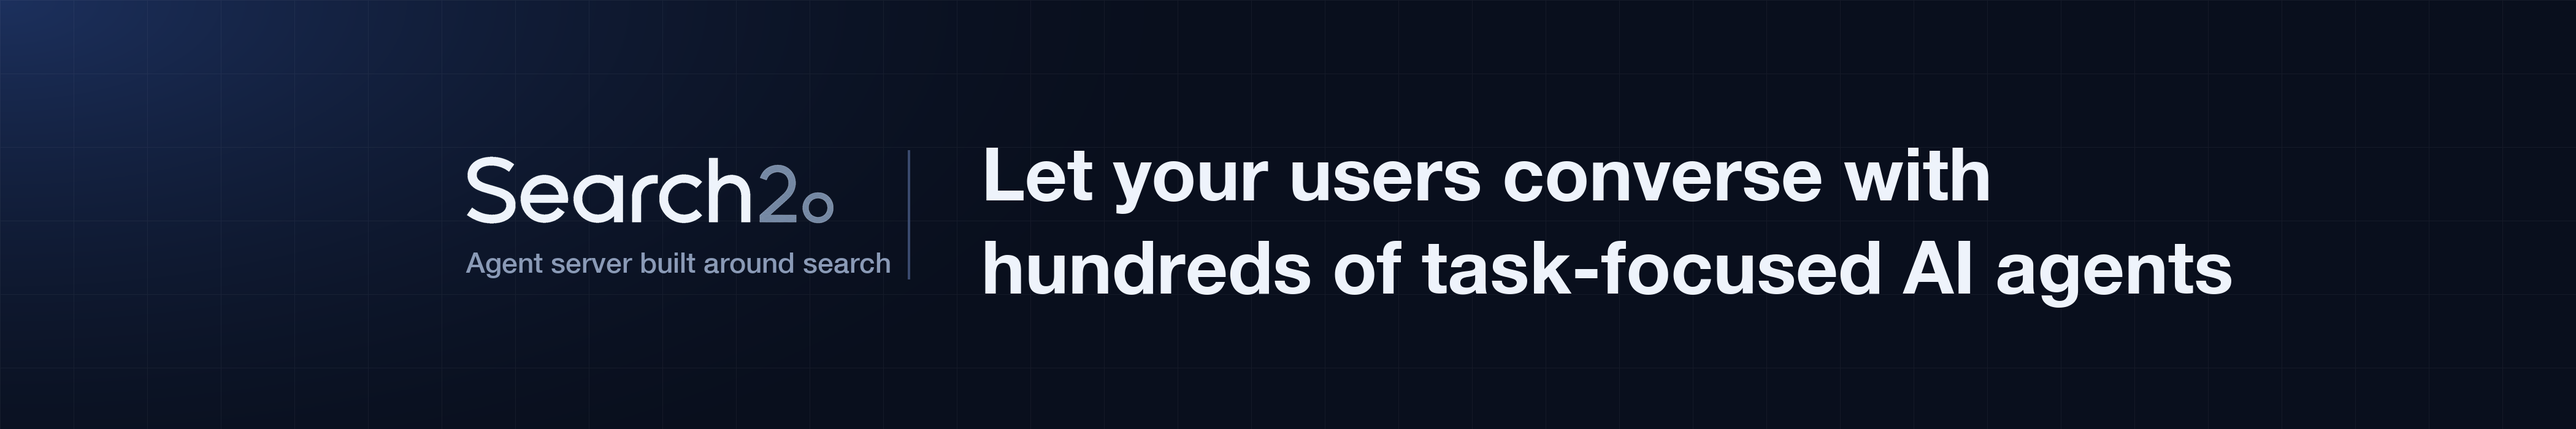
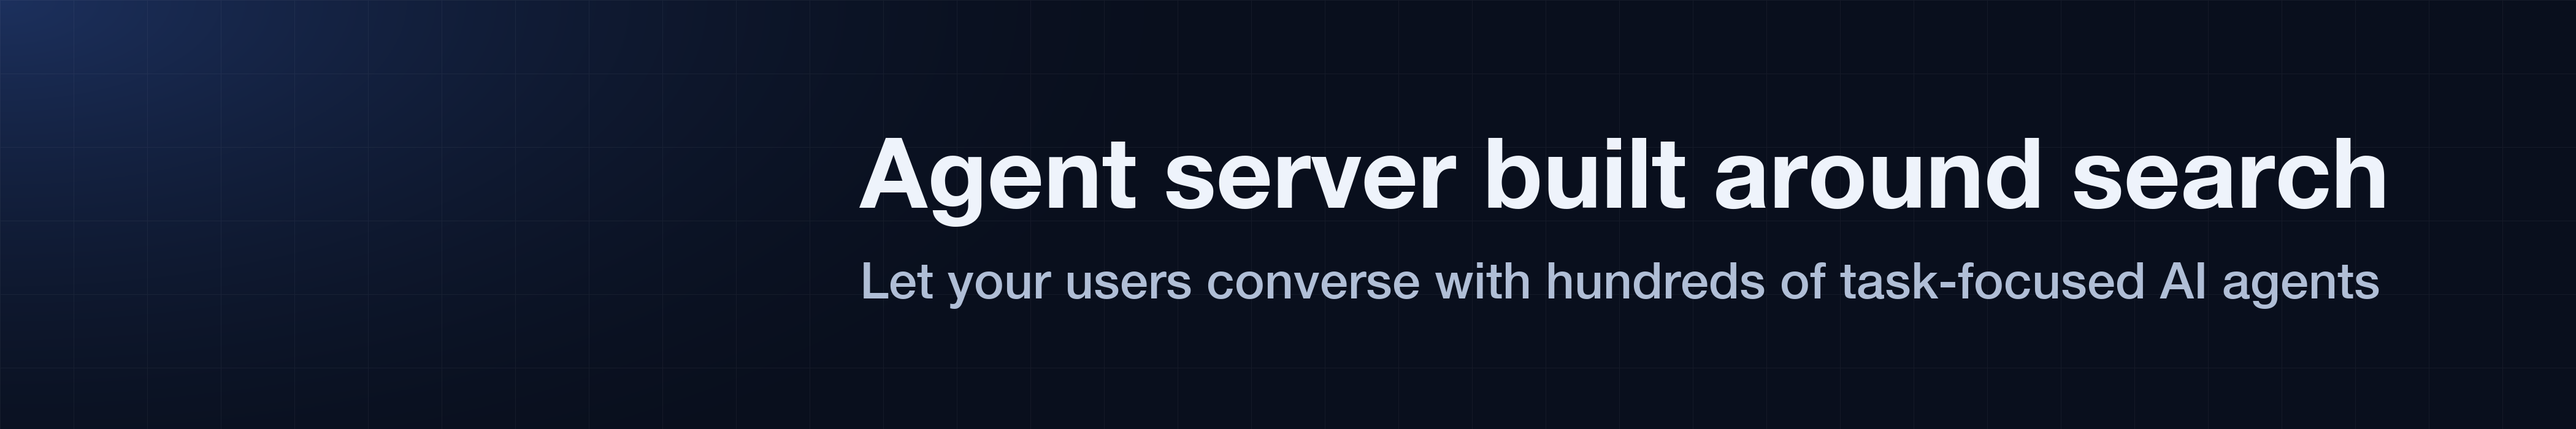
Move from s2oserver

Changed region(s): [[0.156, 0.3, 0.9357, 0.54], [0.156, 0.57, 0.9357, 0.72]]

diff --git a/gen/linkedin_banner.py b/gen/linkedin_banner.py
@@ -1,14 +1,13 @@
-"""Draws content/linkedin-banner2.png, the LinkedIn company page cover (4200x700, 6:1): the wordmark
-art from gen/assets/wordmark.png with the tagline beneath it, and the home page heading. LinkedIn shows it at 1128x191 and overlays the page logo on the bottom-left corner, so the
-content sits in the middle band with wide margins. Run with the system python3 (needs PIL)."""
+"""Draws content/linkedin-banner2.png, the LinkedIn company page cover (4200x700, 6:1): the tagline as
+the title with the home page heading beneath it. LinkedIn shows it at 1128x191 and overlays the page logo on the bottom-left corner, so the
+content starts right of the logo (LOGO_END) and is centred in the space that remains. Run with the system python3 (needs PIL)."""
 import math, os
 from PIL import Image, ImageDraw, ImageFont
 
 HERE = os.path.dirname(os.path.abspath(__file__))
 OUT = os.path.join(HERE, "..", "content", "linkedin-banner2.png")
 W, H = 4200, 700
-BASE = (9, 15, 29); GLOW = (28, 48, 93); INK = (238, 243, 251); MUTED = (138, 154, 182)
-BLUE = (77, 141, 255); TEAL = (45, 212, 191); HAIR = (58, 74, 110)
+BASE = (9, 15, 29); GLOW = (28, 48, 93); INK = (238, 243, 251); SOFT = (176, 190, 214)
 FONT = "/System/Library/Fonts/HelveticaNeue.ttc"
 bold = lambda s: ImageFont.truetype(FONT, s, index=1)
 medium = lambda s: ImageFont.truetype(FONT, s, index=10)
@@ -27,59 +26,21 @@ for x in range(0, W, 120): gd.line([(x, 0), (x, H)], fill=(255, 255, 255, 12))
 for y in range(0, H, 120): gd.line([(0, y), (W, y)], fill=(255, 255, 255, 12))
 img = Image.alpha_composite(img.convert("RGBA"), grid)
 
-# wordmark, navy recoloured to ink, the slate "2o" kept; tagline beneath
-wm = Image.open(os.path.join(HERE, "assets", "wordmark.png")).convert("RGBA")
-wp = wm.load()
-for y in range(wm.height):
-    for x in range(wm.width):
-        r, g, b, a = wp[x, y]
-        if a and r + g + b < 260:
-            wp[x, y] = (*INK, a)
-WM_W = 600
-wm = wm.resize((WM_W, round(wm.height * WM_W / wm.width)), Image.LANCZOS)
-left = 760
-TAG = "Agent server built around search"; TAG_SIZE = 46; TAG_GAP = 34
-block_h = wm.height + TAG_GAP + TAG_SIZE
-wm_top = round((H - block_h) / 2)
-img.alpha_composite(wm, (left, wm_top))
+# tagline as the title with the home page heading as a one-line subtitle, centred as one block in
+# the space right of the logo. The name is left to the logo (gen/linkedin_logo.py).
+LOGO_END = 1097  # x where the overlaid page logo stops covering the banner, as seen on the live page
+TITLE = "Agent server built around search"; TITLE_SIZE = 160
+SUB = "Let your users converse with hundreds of task-focused AI agents"; SUB_SIZE = 82
+SUB_GAP = 64
+title_font = bold(TITLE_SIZE); sub_font = medium(SUB_SIZE)
+content_w = max(title_font.getlength(TITLE), sub_font.getlength(SUB))
+x0 = LOGO_END + round((W - LOGO_END - content_w) / 2)
+block_h = TITLE_SIZE + SUB_GAP + SUB_SIZE
+top = round((H - block_h) / 2) - 14
 d = ImageDraw.Draw(img)
-d.text((left, wm_top + wm.height + TAG_GAP + TAG_SIZE), TAG, font=medium(TAG_SIZE), fill=MUTED, anchor="ls")
-
-# vertical hairline between the wordmark and the headline
-xh = left + WM_W + 120
-d.rectangle([xh, wm_top - 10, xh + 3, wm_top + block_h + 10], fill=HAIR)
-
-# headline: segments per line; "ink" and "muted" are flat, "accent" takes the blue-to-teal gradient over its own span
-LINES = [
-    [("Let your users converse with", "ink")],
-    [("hundreds of task-focused AI agents", "ink")],
-]
-def line_width(font, segs): return sum(font.getlength(t) for t, _ in segs)
-def draw_lines(img, x0, top, f, pitch, size):
-    d = ImageDraw.Draw(img)
-    for i, segs in enumerate(LINES):
-        y = top + i * pitch; x = x0
-        for t, kind in segs:
-            w = f.getlength(t)
-            if kind == "accent":
-                mask = Image.new("L", img.size, 0); ImageDraw.Draw(mask).text((x, y), t, font=f, fill=255)
-                grad = Image.new("RGBA", img.size, (0, 0, 0, 0)); gp = grad.load()
-                for gx in range(int(x) - 2, int(x + w) + 3):
-                    s = min(1, max(0, (gx - x) / w))
-                    c = tuple(round(a + (b - a) * s) for a, b in zip(BLUE, TEAL)) + (255,)
-                    for gy in range(int(y) - 10, int(y + size) + 40): gp[gx, gy] = c
-                img.paste(grad, (0, 0), mask)
-            else:
-                d.text((x, y), t, font=f, fill=INK if kind == "ink" else MUTED)
-            x += w
-x0 = xh + 120
-size = 120
-while max(line_width(bold(size), l) for l in LINES) > W - 120 - x0: size -= 1
-f = bold(size); pitch = round(size * 1.27)
-n = len(LINES)
-top = round((H - ((n - 1) * pitch + size * 1.0)) / 2) - 4
-draw_lines(img, x0, top, f, pitch, size)
-x1 = x0 + max(line_width(f, l) for l in LINES)
+d.text((x0, top), TITLE, font=title_font, fill=INK)
+d.text((x0, top + TITLE_SIZE + SUB_GAP), SUB, font=sub_font, fill=SOFT)
+x1 = x0 + content_w
 
 out = img.convert("RGB"); out.save(OUT, optimize=True)
-print("saved", OUT, out.size, "headline right edge", round(x1), "of", W, "bytes", os.path.getsize(OUT))
+print("saved", OUT, out.size, "content from", x0, "to", round(x1), "of", W, "bytes", os.path.getsize(OUT))
